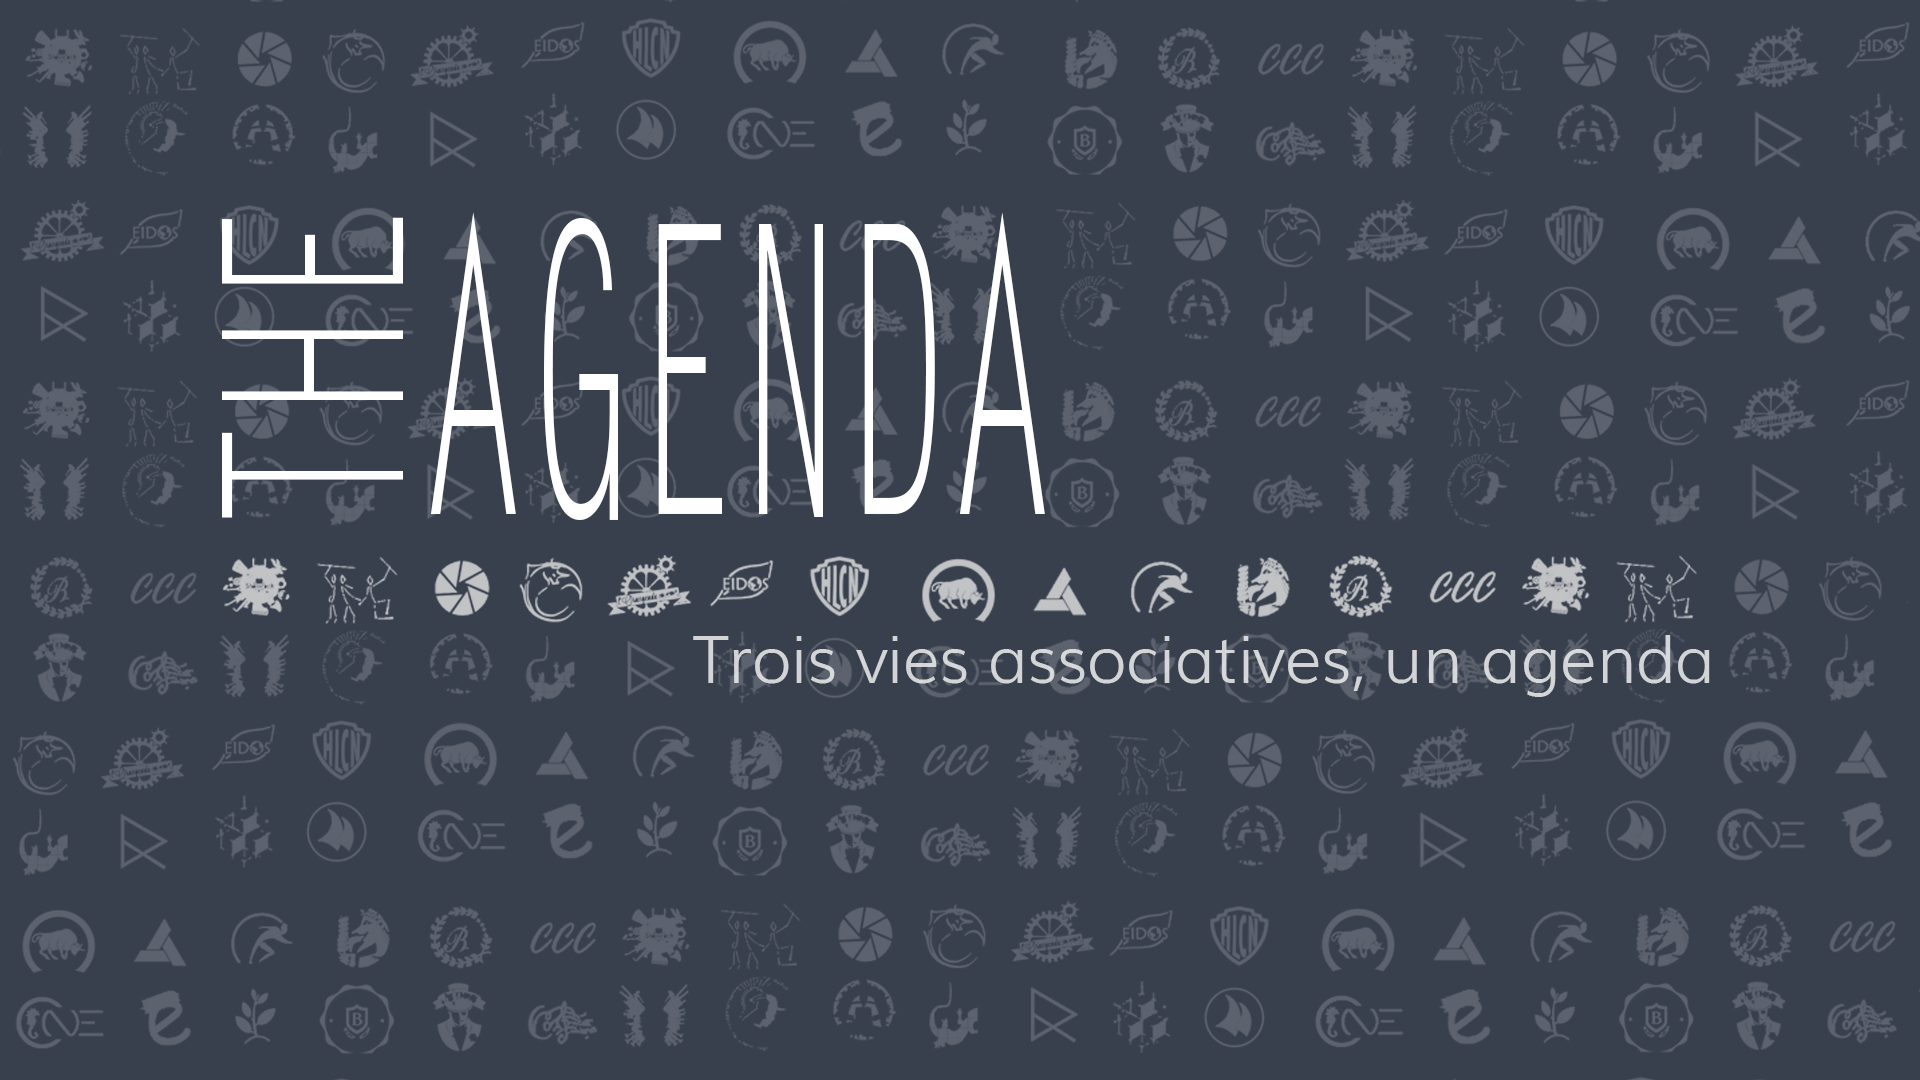
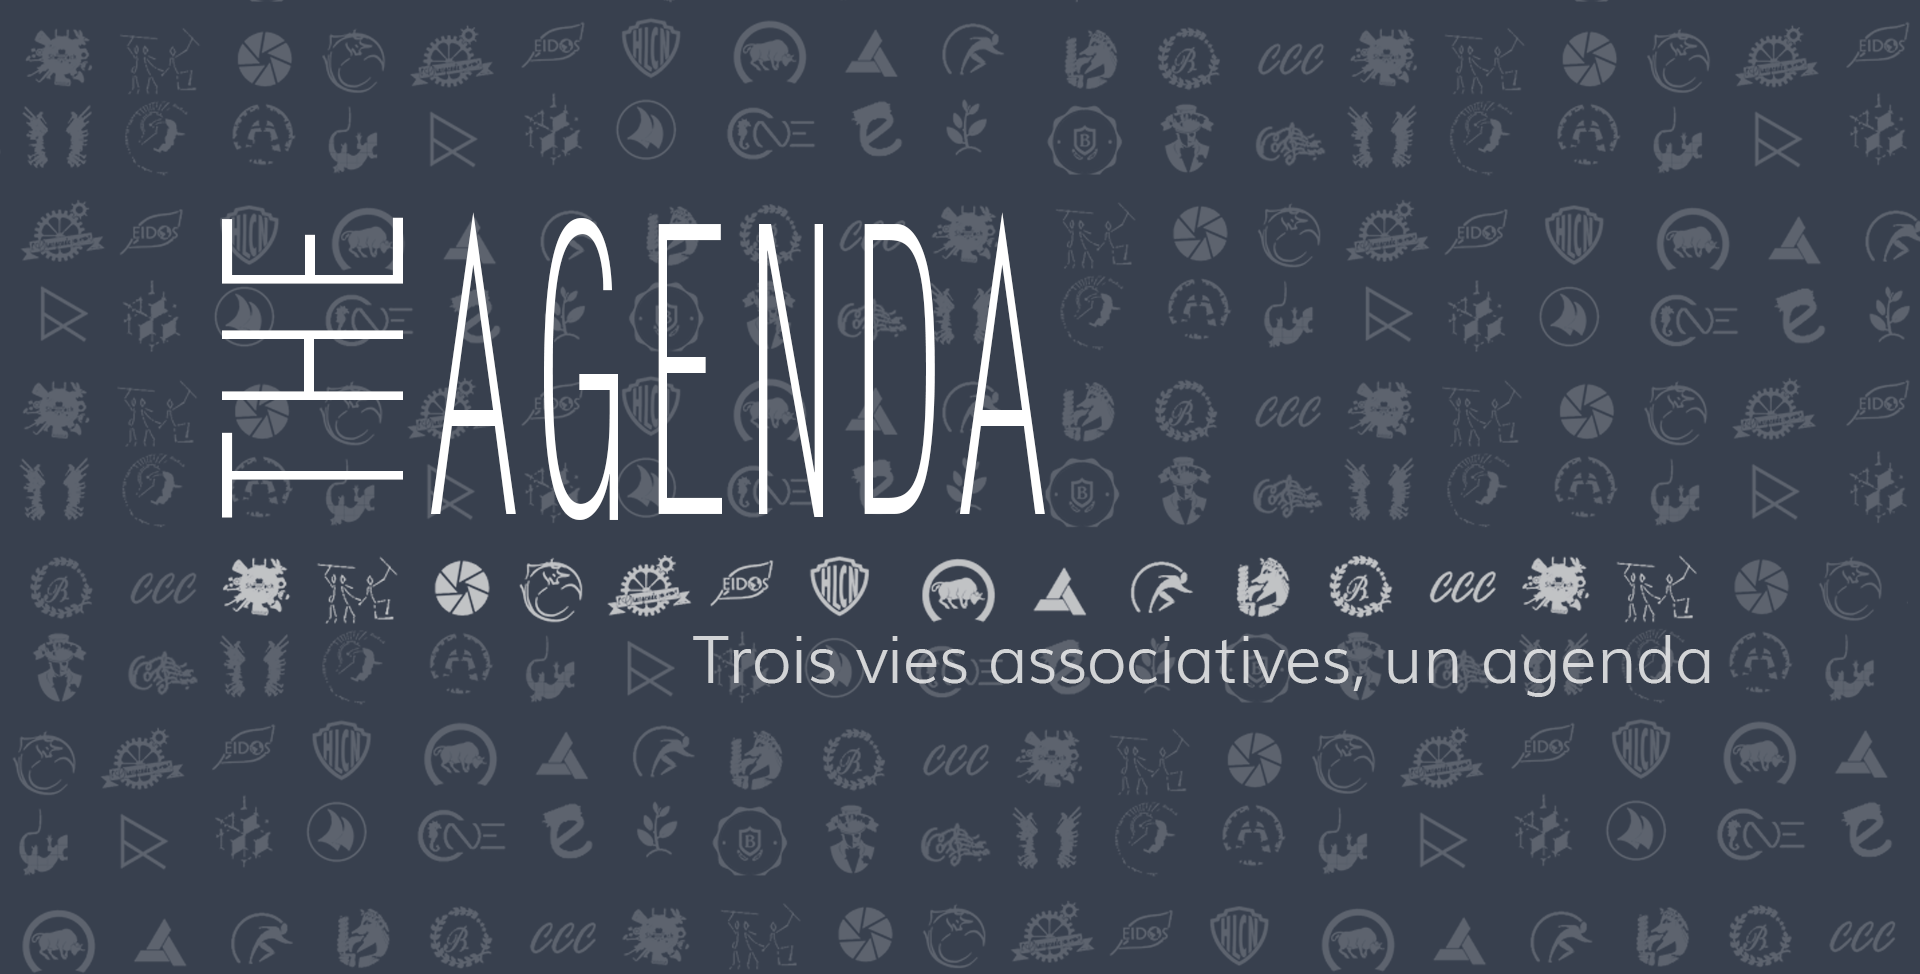
maj code

diff --git a/index.html b/index.html
@@ -15,16 +15,19 @@
   <body>
 
 <!-- structure en row -->
-<div class="container">
+<div class="container-full">
   <div class="row">
     <div class="col-xs-12" id="header">
-    <h1> THE Agenda </h1>
-    <h2> Trois vies associatives, un agenda</h2>
-    <div id="barre">
-          <h3><i class='fa fa-search'></i>
-         Recherche</h3>
+  </div>
+  <div class="col-xs-12 fond">
+      <div class="bouton">
+    <a class="typeform-share button" href="https://theagenda.typeform.com/to/HAVocW" data-mode="popup" style="display: inline-block; text-decoration: none; background-color: #267DDD; color: white; cursor: pointer; font-family: Helvetica, Arial, sans-serif; font-size: 24px; line-height: 1.5em; padding: 10px 30px; margin: 15; height: 2em; border-radius: 50px; box-shadow: none; background-image: none; border: none" target="_blank">Créer un événement </a> <script> (function() { var qs, js, q, s, d = document, gi = d.getElementById, ce = d.createElement, gt = d.getElementsByTagName, id = "typef_orm_share", b = "https://s3-eu-west-1.amazonaws.com/share.typeform.com/"; if (!gi.call(d, id)) { js = ce.call(d, "script"); js.id = id; js.src = b + "share.js"; q = gt.call(d, "script")[0]; q.parentNode.insertBefore(js, q) } })() </script>
+
+ 
+  </div>      
     </div>
-    </div>
+  </div>
+  
   </div>
 
   <div class="row tri">
@@ -35,8 +38,8 @@
              <h4>Trois écoles</h4>
       </div>
   </div>
-  <div class ="row">
-    <div class="col-xs-8 filterbar">
+  <div class ="row filterbar">
+    <div class="col-xs-8">
       <div class= "col-xs-4 filtre">
             <h5>
             <ul>
@@ -59,7 +62,7 @@
           </h5>
        </div>   
       </div>
-      <div class= "col-xs-4 filtre filterbar">
+      <div class= "col-xs-4 filtre ">
             <h5>
            <ul>
               <li>Centrale</li>
@@ -71,24 +74,12 @@
     </div>
 
   <div class="row">
-    <div class="col-xs-12">
+    <div class="col-xs-12 ">
       <div id="calendrier">
+<iframe src="https://calendar.google.com/calendar/embed?title=The%20Agenda&amp;showPrint=0&amp;mode=WEEK&amp;height=500&amp;wkst=1&amp;bgcolor=%23c0c0c0&amp;src=alliancecalendrier%40gmail.com&amp;color=%2323164E&amp;src=90idspnsc06f9faj6mrbof6hpc%40group.calendar.google.com&amp;color=%23182C57&amp;src=fd70unpl46qp8ushkhnmm0b3vk%40group.calendar.google.com&amp;color=%23711616&amp;src=ujvpa0bvb6ll73doouqoj7egn4%40group.calendar.google.com&amp;color=%23125A12&amp;ctz=Europe%2FParis" style="border:solid 1px #777" width="1000" height="500" frameborder="0" scrolling="no"></iframe>
         <!Calendrier>
       </div>      
     </div>
-  </div>
-  <div class="row">
-    <div class="col-xs-12">
-      <div class="bouton">
-    <a class='btn btn-primary' href='lien'>
-    <h6><strong>Créer un événement</strong></h6>
-    </a>
-    <div id="blah">
-      <h7><em>en tant qu'association, club, Bureau </em></h7>
-    </div>
-  </div>      
-    </div>
-  </div>
   <div class="row">
     <div class="col-xs-12">
        <div id="logo">

diff --git a/style.css b/style.css
@@ -1,23 +1,16 @@
 
 /*------police-------*/
-h1, h2, h3, h4 , h5, h6, h7 {
+h3, h4 , h5, h6, h7 {
 	font-family: 'Muli', sans-serif;
 }
 
-h1{ 
-	color : white;
-	font-weight: 50px;
 
-}
-h2{
-	color: white;
 
-}
 h3{
 	color:#303851;
 }
 h4{
-
+	color: white;
 }
 h5{
 
@@ -35,7 +28,7 @@ text-align: left;
 
 /*----------------div-----------------*/
 body{
-	background-color: #BFC0c0 0.75;
+	background-color: #dddbf1 ;
 
 }
 
@@ -44,55 +37,63 @@ div{
 }
 /*----------------id et class-----------------*/
 #header{
-	background-color: #0d2c54;
-	border-bottom: 7px solid #353b3c;
+	background-image: url("image/bandeau.png");
+	border-bottom: 7px ;
+	padding: 300px 0 100px 0;
+	background-size: cover;
+	background-position: center;
+	background-repeat: no-repeat;
+	height: 80vh;
 }
 
-#barre{
-	box-shadow : 1px 1px 5px darkgrey;
-	margin: 10px;
-	border-radius: 5px;
-}
-#barre :hover{
-	box-shadow : 1px 1px 10px darkgrey;
-	border-radius: 5px;
-}
 .tri{ 
-	background-color: green;
+	background-color: #383f51;
 }
 .filtre{
+	padding : 20px;
+	padding-left : 240px;
 
 }
 
 .filterbar{ 
-	border-top: 1px dashed #353b3c;
-	box-shadow : 1px 1px 7px darkgrey;
-	background-color:lightgreen;
+	background-color:#96939b;
 	border-radius: 5px;
-}
+	}
 
 .trititre {
+	text-align: center;
 	border-radius: 5px;
 	box-shadow: 1px 1px 7px #353b3c;
 }
 
 #calendrier{
-	
+	text-align: center;
+	padding-top: 52px;
+	padding-bottom: 52px;
 }
 
 .bouton{
+	padding-left: 190px;
+	padding-bottom: 50px;
 	
 }
 
 #blah{
+	color: white;
 	padding-left: 30px;
 }
 
 #logo{
 	background-color: white;
 	text-align: center;
-	box-shadow : 1px 0px 5px darkgrey;
+	box-shadow : 20px 30px 5px #96939b;
+	border-radius: 10px;
+
 
 }
 
+.fond{
+	background-image: url("image/fond.png");
+
+}
 
